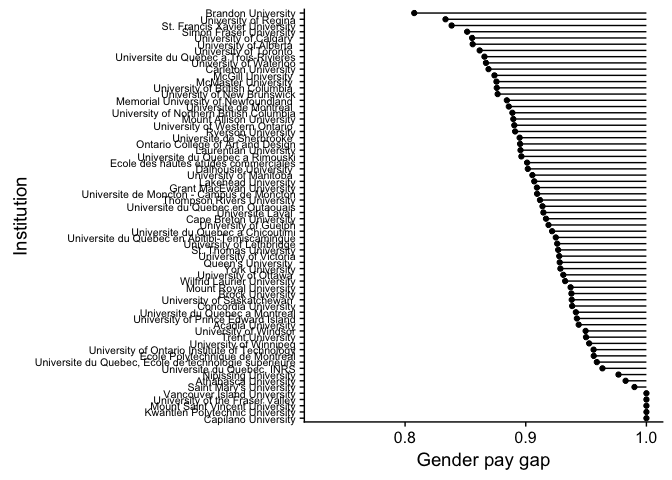
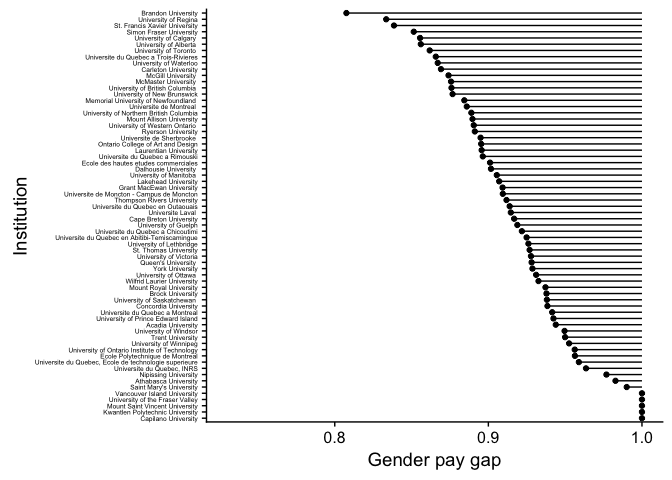
Commit from RStudio

diff --git a/statscan.md b/statscan.md
@@ -100,7 +100,7 @@ p1 <- ggplot(data=median_sum, aes(x=reorder(University, dif), y=as.numeric(dif))
                    xend=reorder(University, dif), 
                    y=0, 
                    yend=as.numeric(dif)))+
-      theme(axis.text.y = element_text(size=12))
+      theme(axis.text.y = element_text(size=5))
 p1
 ```
 
@@ -118,7 +118,7 @@ p2 <- ggplot() +
                    xend=reorder(University, dif), 
                    y=1.0, 
                    yend=as.numeric(percent)))+
-      theme(axis.text.y = element_text(size=8))
+      theme(axis.text.y = element_text(size=5))
 p2
 ```
 
